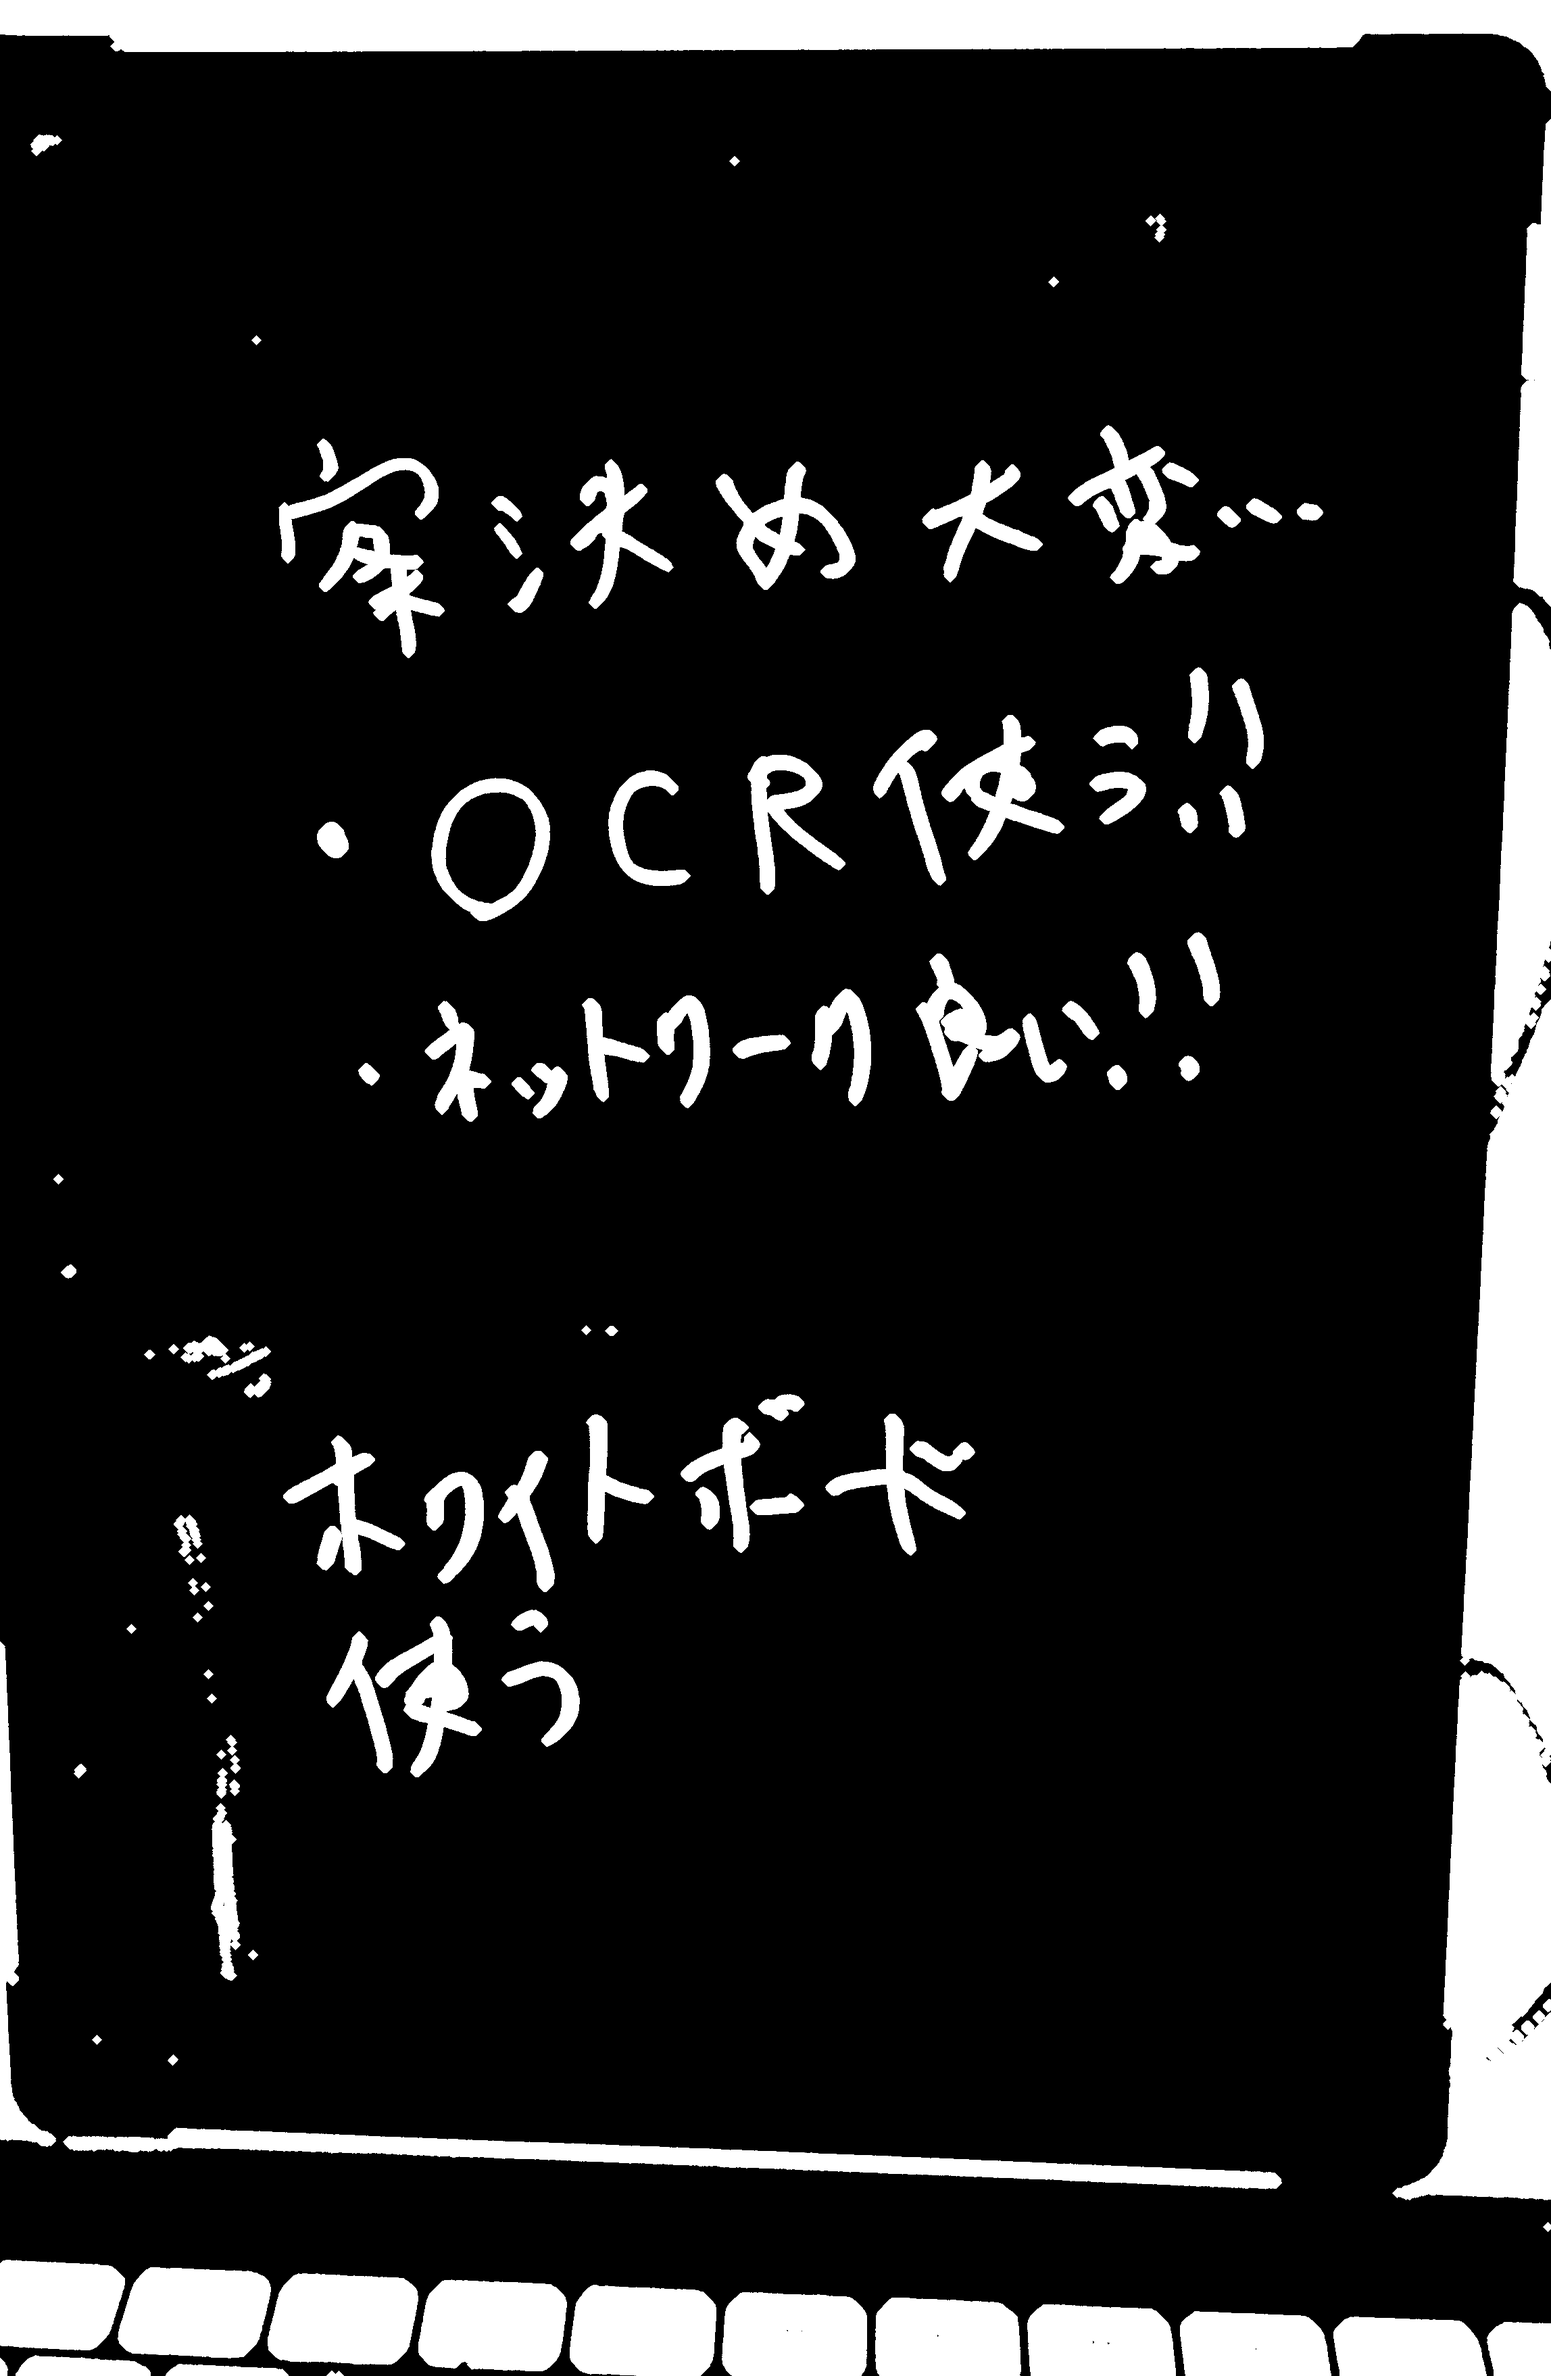
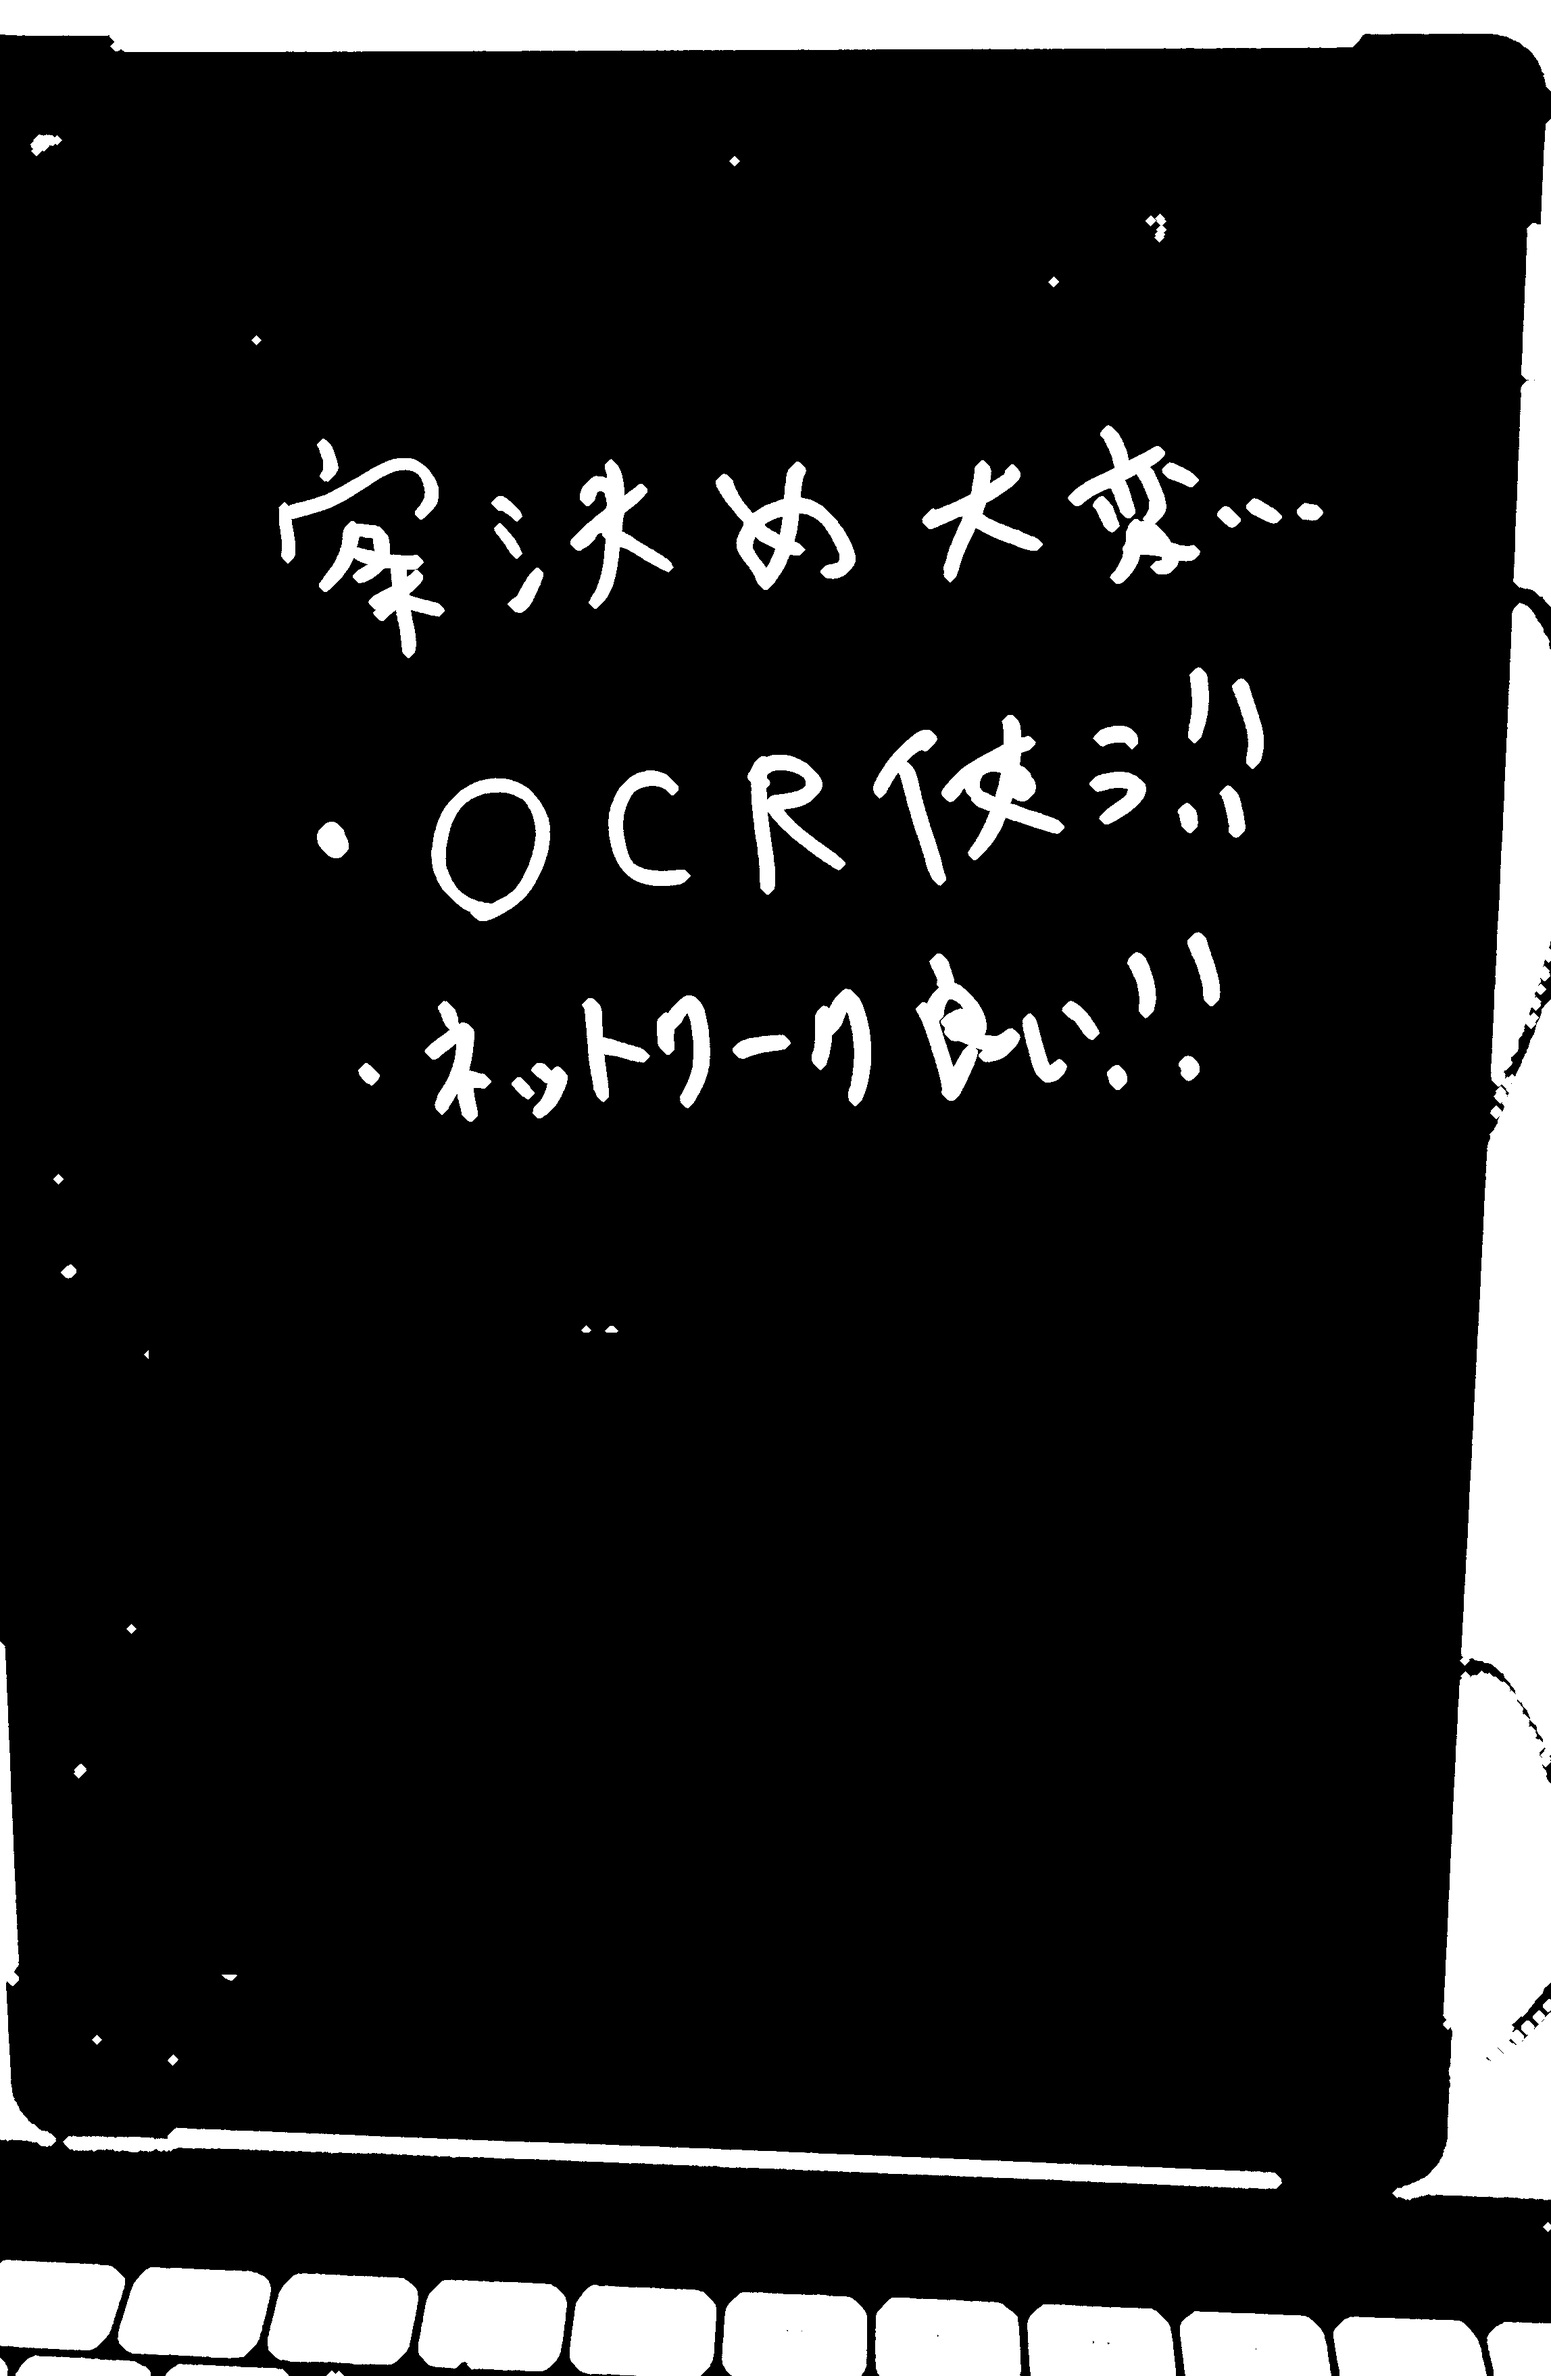
v2!!

diff --git a/cutOut.py b/cutOut.py
@@ -115,7 +115,8 @@ def imageRe (byte):
         img_th = cv2.dilate(img_th,neiborhood,iterations=7)
         #img_th = cv2.ximgproc.thinning(img_th,thinningType = cv2.ximgproc.THINNING_GUOHALL)
         #img_th = cv2.dilate(img_th,neiborhood,iterations=1)
-
+        if(num == 0):
+            img_th_Bl = img_th
         # Step 2 ----------------------------------------------------------------------------------------------
         contours = cv2.findContours(img_th, cv2.RETR_TREE, cv2.CHAIN_APPROX_SIMPLE)[0]
 
@@ -151,6 +152,7 @@ def imageRe (byte):
             rects.append(rect)
             outputs.append(getPartImageByRect(rect, img_c))
             img_th = cv2.rectangle(img_th,(rect[2]-100,rect[1]+100),(rect[3]+100,rect[0]-100),(0,0,0),-1)
+            img_th_Bl = cv2.rectangle(img_th_Bl,(rect[2],rect[1]),(rect[3],rect[0]),(0,0,0),-1)
             if((abs(beforeRect[0]-rect[0])<200)and(abs(beforeRect[1]-rect[1])<200)and(abs(beforeRect[2]-rect[2])<200)and(abs(beforeRect[3]-rect[3])<200)):
                 continue
 
@@ -180,12 +182,12 @@ def imageRe (byte):
             print(rect)
         print(str(color), "color")
         cv2.imwrite('./output/'+str(color)+'output.png',img_th)
-        if(num == 0):
-            target_file = r"./output/Bloutput.png"
-            with open(target_file, 'rb') as f:
-                data = f.read()
-            binaryBl = base64.b64encode(data)
-            Blackdict = {"text":binaryBl}
+        # if(num == 0):
+        #     target_file = r"./output/Bloutput.png"
+        #     with open(target_file, 'rb') as f:
+        #         data = f.read()
+        #     binaryBl = base64.b64encode(data)
+        #     Blackdict = {"text":binaryBl}
         
         if(num == 1):
             target_file = r"./output/Routput.png"
@@ -218,6 +220,12 @@ def imageRe (byte):
     with open(encode_file,"wb") as f:
         f.write(binaryB)
     """
+    cv2.imwrite('./output/Bloutput.png',img_th_Bl)
+    target_file = r"./output/Bloutput.png"
+    with open(target_file, 'rb') as f:
+        data = f.read()
+    binaryBl = base64.b64encode(data)
+    Blackdict = {"text":binaryBl}
     imgdict = {"Black":Blackdict,"red":reddict, "green":greendict, "blue":bluedict}
     return imgdict
 #print(imgdict)
